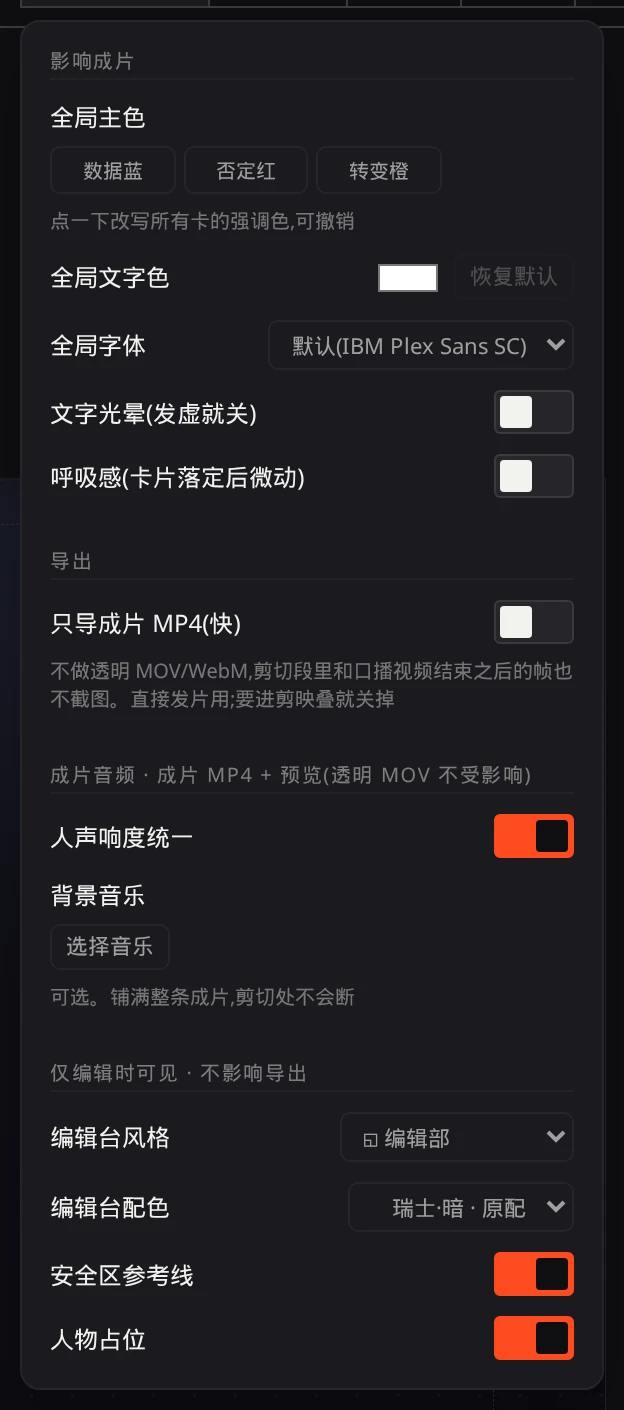
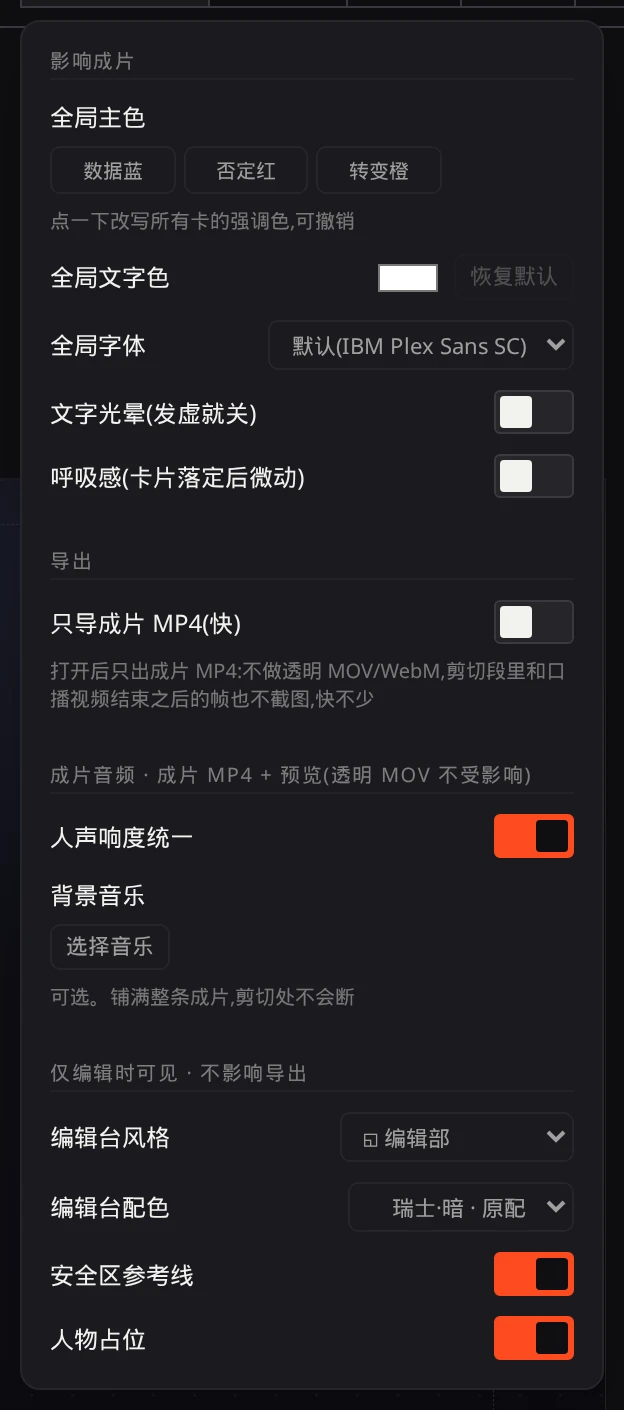
Final-only export: fifteenth review fixes
- framesDone is set only after compose.json is written; a failed blank-frame fallback
  fails the export instead of promising PNGs that don't exist.
- preCutPlan/preCutMeta shared by the exporter and the re-compose test.
- job.finalOnly must be === true, matching the server.
- Switch hint depends on the switch state (screenshot retaken); guide 6.3 labels;
  FAQ 导出很慢 points to the fast mode.

Changed region(s): [[0.0609, 0.4681, 0.9135, 0.4993]]

diff --git a/motion-playground/tests/composeFinal.test.ts b/motion-playground/tests/composeFinal.test.ts
@@ -3,7 +3,7 @@ import assert from "node:assert/strict";
 import {
   buildArgs, planCuts, fpsValue, cutFrameRanges, inFrameRanges, checkPreCutMeta, captureEndFor, isPreCut, parseComposeMeta, loudnessGain, loudnessStatus, parseLoudness, LOUDNESS_TARGET, BGM_DEFAULT_DB,
 } from "../scripts/compose-final.mjs";
-import { captureSchedule } from "../scripts/export-plan.mjs";
+import { preCutMeta, preCutPlan } from "../scripts/export-plan.mjs";
 import { normalizeAudio, BGM_VOLUME_DEFAULT } from "../src/overlay/types.ts";
 
 test("loudnessGain: brings speech to the target, clamped, and leaves near-silence alone", () => {
@@ -267,11 +267,11 @@ test("final-only: the frames the exporter skips are exactly the frames the compo
 test("final-only re-compose: allowed exactly when every kept footage frame still gets the same PNG", () => {
   const fpsArg = "30000/1001";
   // 和导出脚本写进 compose.json 的一模一样
+  // 和导出脚本用同一套 preCutPlan / preCutMeta;frames = 实际写的 PNG 张数(一张都没截时导出脚本补一张透明帧)
   const exportMeta = (cuts: { start: number; end: number }[], footage: number, timelineFrames: number) => {
-    const skipFrames = cutFrameRanges(cuts, fpsArg, footage);
-    const captureEnd = captureEndFor(footage, fpsArg, timelineFrames);
-    const frames = captureSchedule(timelineFrames, skipFrames, captureEnd).filter(Boolean).length;
-    return { overlayPreCut: true, fpsArg, cuts, skipFrames, timelineFrames, captureEnd, frames };
+    const plan = preCutPlan({ cuts, fpsArg, footageDuration: footage, timelineFrames });
+    const shot = plan.schedule.filter(Boolean).length;
+    return { fpsArg, cuts, ...preCutMeta(plan, timelineFrames, shot || 1) };
   };
 
   // 时间轴比原片长:原片 12s,时间轴 400 帧,一刀在 2–4s、一刀越过原片结尾(11–13s)

diff --git a/motion-playground/src/components/TopBar.tsx b/motion-playground/src/components/TopBar.tsx
@@ -463,7 +463,9 @@ export function TopBar({
                 </span>
                 <div className="tb-prefs-hint">
                   {canFinalOnly
-                    ? "不做透明 MOV/WebM,剪切段里和口播视频结束之后的帧也不截图。直接发片用;要进剪映叠就关掉"
+                    ? finalOnlyPref
+                      ? "不做透明 MOV/WebM,剪切段里和口播视频结束之后的帧也不截图。直接发片用;要进剪映叠就关掉"
+                      : "打开后只出成片 MP4:不做透明 MOV/WebM,剪切段里和口播视频结束之后的帧也不截图,快不少"
                     : finalOnlyPref
                       ? "已打开,设好口播视频后生效(导入视频时会自动设上;成片 = 口播原片 + 动效层);现在导出的还是透明 MOV"
                       : "设好口播视频后才有成片(导入视频时会自动设上;成片 = 口播原片 + 动效层);没设时照常导透明 MOV"}

diff --git a/操作指南.md b/操作指南.md
@@ -321,7 +321,7 @@
 
 ### 6.3 别搞混:编辑台风格和配色不影响成片
 
-「⚙ 全局设置」最下面那段的两个下拉 —— **◱ 编辑台风格** 和 **🎨 编辑台配色**(以前摆在顶栏中间)—— 改的是**编辑台自己长什么样**(圆角、边框、控件颜色),跟导出画面**一点关系都没有**。纯粹是让你用着舒服。任何配色都能配任何风格,带「· 原配」标记的是这个风格的默认搭配。
+「⚙ 全局设置」最下面那段的两个下拉 —— **编辑台风格** 和 **编辑台配色**(选项前面带 ◱ / 🎨;以前摆在顶栏中间)—— 改的是**编辑台自己长什么样**(圆角、边框、控件颜色),跟导出画面**一点关系都没有**。纯粹是让你用着舒服。任何配色都能配任何风格,带「· 原配」标记的是这个风格的默认搭配。
 
 > **做完你应该看到什么:** 点一下全局主色的某个色块,画布里**所有**卡的强调色一起变了;⌘Z 一按,全变回去。
 
@@ -373,7 +373,7 @@ macOS:`brew install ffmpeg`;Windows(PowerShell):`winget install --id Gyan.FFmpeg
 不必须。**❌ 必修**建议改,**⚠ 建议**你说了算。点「忽略」就写进那张卡,以后不再提醒 —— 你的决定永远最大。
 
 **导出很慢**
-正常。它是逐帧渲染的:先抽帧、再一帧一帧渲、最后合成。长录屏光「预处理素材」就要几分钟。右下角进度浮窗里的「预计还需」是按实际速度算的,可以信。
+正常。它是逐帧渲染的:先抽帧、再一帧一帧渲、最后合成。长录屏光「预处理素材」就要几分钟。右下角进度浮窗里的「预计还需」是按实际速度算的,可以信。只要成片、不进剪映的话,打开「⚙ 全局设置 → 导出 → 只导成片 MP4(快)」会快不少(见 3.6)。
 
 **改错了想退回去**
 **⌘Z**。时间轴上的改动、全局主色改写,都能撤销。
